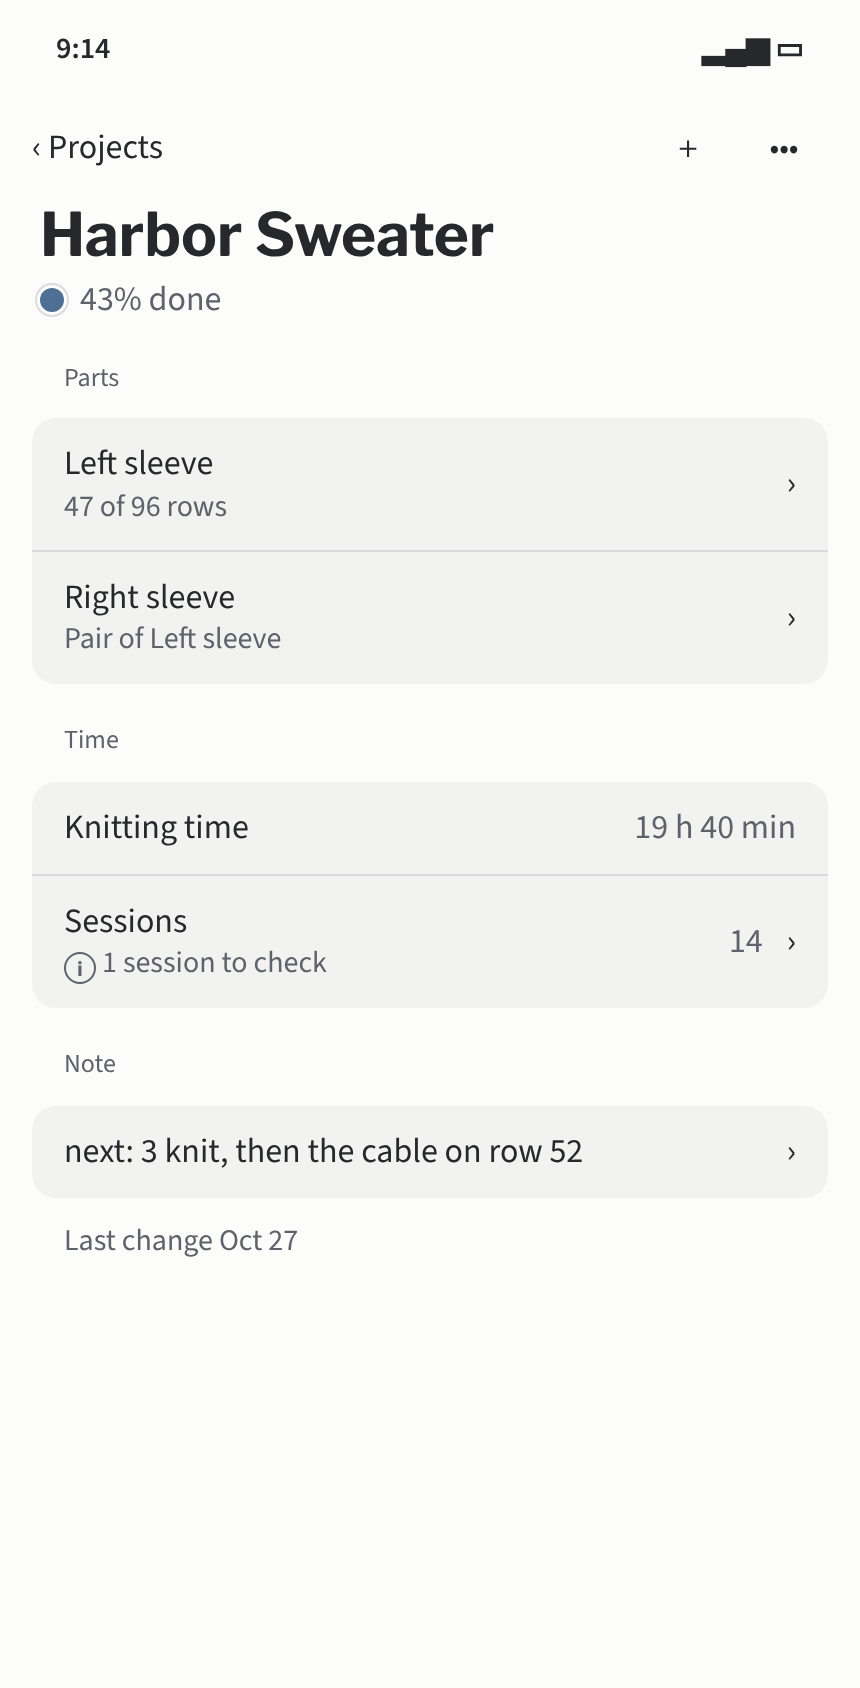
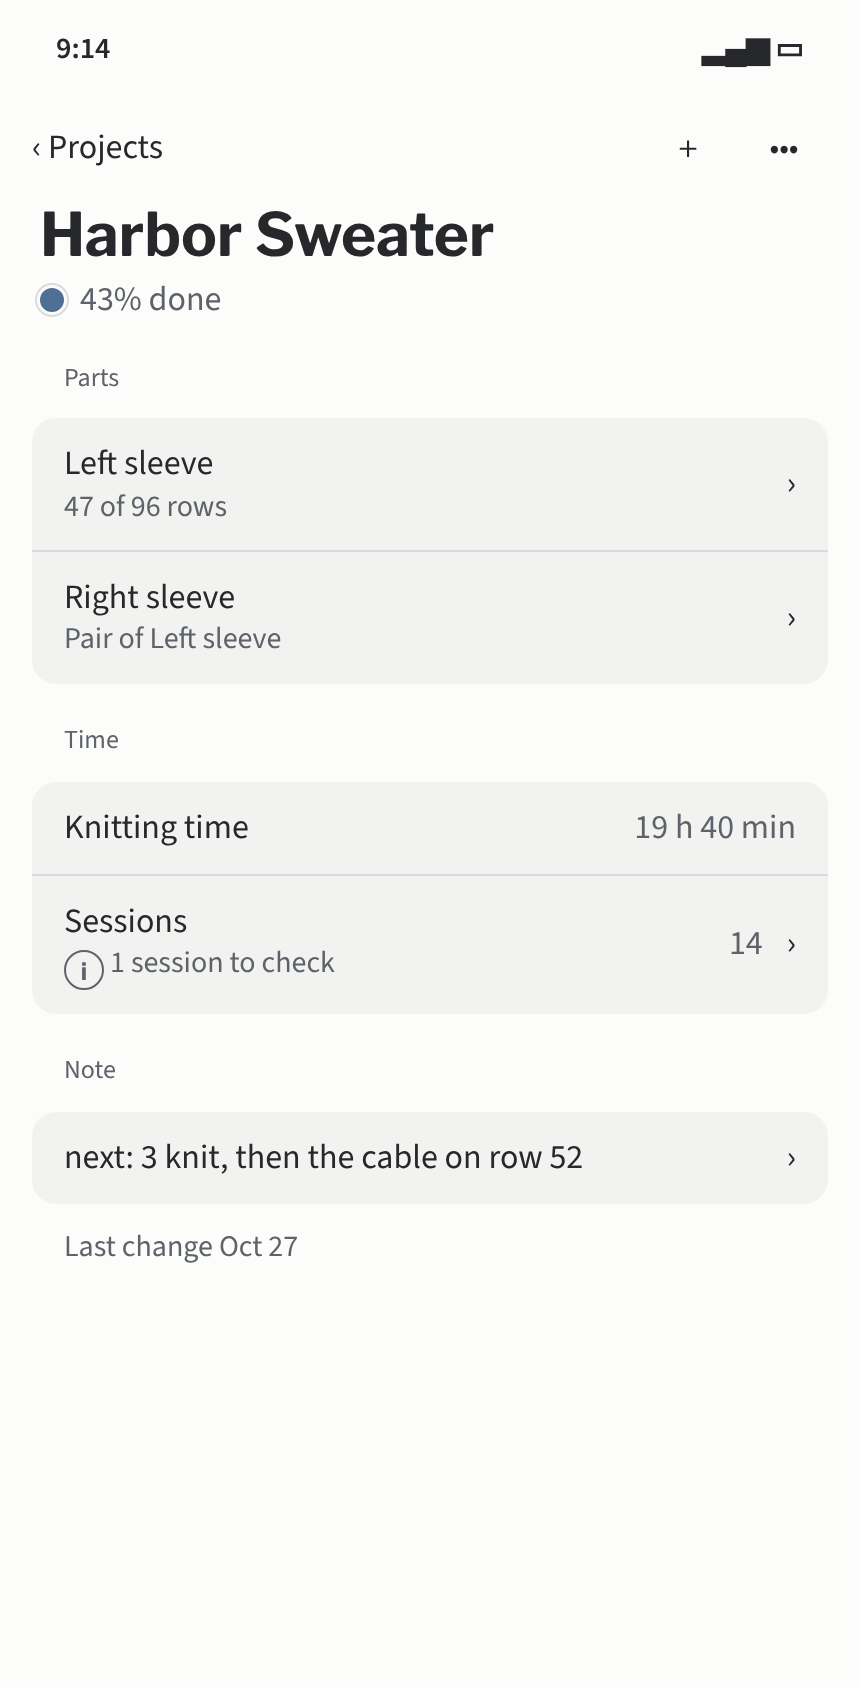
04 fix-6: znak „i” w liście sesji 12 px zamiast 10 px (warsztat.mjs: 2 błędy → OK), wzorce odświeżone
Claude-Session: https://claude.ai/code/session_01AsGyBh8cmgp6SEm3SmuUun

Changed region(s): [[0.0907, 0.6777, 0.6953, 0.7701], [0.0907, 0.5545, 0.393, 0.5853], [0.0605, 0.6161, 0.1209, 0.6469]]

diff --git a/docs/design/fix6-2026-10-26/sesje-historia.html b/docs/design/fix6-2026-10-26/sesje-historia.html
@@ -197,6 +197,26 @@ h1 { font: 700 calc(30px * var(--dt-tytul)) / 1.15 var(--tytul); margin: 0; }
 .kolo-pas::before { content: ""; position: absolute; left: 16px; right: 16px; top: 40px; height: 36px; border-radius: 8px; background: var(--linia); opacity: .6; }
 .kolo-pas > * { position: relative; }
 .grupa .el .tx { min-width: auto; }
+/* obraz karty ukończenia (P10a): plik 1080 × 1350, zawsze kolory motywu jasnego (obraz trafia poza aplikację), wielkości względem szerokości obrazu, nie Dynamic Type */
+.karta-obraz { container-type: inline-size; width: 100%; aspect-ratio: 4 / 5; background: #FCFCFA; color: #26282C; display: flex; flex-direction: column; overflow: hidden; box-shadow: 0 8px 32px rgba(0,0,0,.25); }
+.karta-obraz .foto { flex: 0 0 46%; background: linear-gradient(135deg, #8BA4C4, #4F6F94); }
+.karta-obraz .k-tresc { padding: 6cqw 7cqw 0; flex: 1; }
+.karta-obraz .k-okres { color: #5E626A; font: 400 4.2cqw/1.3 var(--tresc); }
+.karta-obraz .k-nazwa { display: flex; align-items: center; gap: 2.5cqw; font: 700 8.5cqw/1.1 var(--tytul); margin-top: 1.5cqw; }
+.karta-obraz .k-nazwa .kropka { width: 3.5cqw; height: 3.5cqw; box-shadow: none; }
+.karta-obraz .k-liczby { display: flex; gap: 8cqw; margin-top: 5cqw; }
+.karta-obraz .k-liczby div { display: flex; flex-direction: column; }
+.karta-obraz .k-liczby b { font: 700 9cqw/1 var(--tytul); font-variant-numeric: tabular-nums; }
+.karta-obraz .k-liczby span { color: #5E626A; font: 400 3.8cqw/1.3 var(--tresc); margin-top: 1cqw; }
+.karta-obraz .k-wloczka { margin-top: 5cqw; font: 400 4.2cqw/1.3 var(--tresc); }
+.karta-obraz .k-stopka { display: flex; align-items: center; gap: 2cqw; padding: 0 7cqw 6cqw; color: #5E626A; font: 600 3.6cqw var(--tresc); }
+.karta-obraz .k-stopka svg { width: 6cqw; }
+/* krytyka renderu D (AX5, 320 pt): przełączniki łamią się, kafel „Add photo” rośnie z tekstem, pasek podglądu zdjęcia łamie się */
+.pole-liczby .segment { flex-basis: 100% !important; }
+.segment { flex-wrap: wrap; } .segment span { flex: 1 1 auto; padding: 0 8px; text-align: center; }
+.miniatury .m.dodaj { width: auto; min-width: 88px; height: auto; min-height: 88px; padding: 8px 12px; }
+.pasek-zdjecia { display: flex; flex-wrap: wrap; justify-content: space-between; gap: 4px 16px; padding: 8px 20px 32px; font-size: calc(17px * var(--dt-tresc)); }
+.pasek-zdjecia span { min-height: 44px; display: flex; align-items: center; }
 </style>
 </head>
 <body>
@@ -339,7 +359,7 @@ h1 { font: 700 calc(30px * var(--dt-tytul)) / 1.15 var(--tytul); margin: 0; }
   <div class="naglowek-grupy">Time</div>
   <div class="grupa">
     <div class="el"><div class="tx">Knitting time</div><span class="wartosc">19 h 40 min</span></div>
-    <div class="el" role="button" data-testid="projekt-sesje"><div class="tx">Sessions<small><span class="znak-uwagi" style="width:16px;height:16px;font-size:10px;vertical-align:-2px">i</span> 1 session to check</small></div><span class="wartosc">14</span><span aria-hidden="true">›</span></div>
+    <div class="el" role="button" data-testid="projekt-sesje"><div class="tx">Sessions<small><span class="znak-uwagi" style="vertical-align:-4px">i</span> 1 session to check</small></div><span class="wartosc">14</span><span aria-hidden="true">›</span></div>
   </div>
   <div class="naglowek-grupy">Note</div>
   <div class="grupa"><div class="el"><div class="tx">next: 3 knit, then the cable on row 52</div><span aria-hidden="true">›</span></div></div>
@@ -353,7 +373,7 @@ h1 { font: 700 calc(30px * var(--dt-tytul)) / 1.15 var(--tytul); margin: 0; }
   <div class="tytul"><h1>Sessions</h1><p class="pod">19 h 40 min in 14 sessions</p></div>
   <div class="naglowek-grupy">Monday, Oct 26</div>
   <div class="grupa">
-    <div class="el" role="button" data-testid="sesje-do-sprawdzenia"><div class="tx">20:32–4:32 the next day<small><span class="znak-uwagi" style="width:16px;height:16px;font-size:10px;vertical-align:-2px">i</span> Stopped after 8 hours. Check the end time.</small></div><span class="wartosc">8 h</span><span aria-hidden="true">›</span></div>
+    <div class="el" role="button" data-testid="sesje-do-sprawdzenia"><div class="tx">20:32–4:32 the next day<small><span class="znak-uwagi" style="vertical-align:-4px">i</span> Stopped after 8 hours. Check the end time.</small></div><span class="wartosc">8 h</span><span aria-hidden="true">›</span></div>
     <div class="el" role="button"><div class="tx">18:05–19:10<small>10 min paused</small></div><span class="wartosc">55 min</span><span aria-hidden="true">›</span></div>
   </div>
   <div class="naglowek-grupy">Saturday, Oct 24</div>
